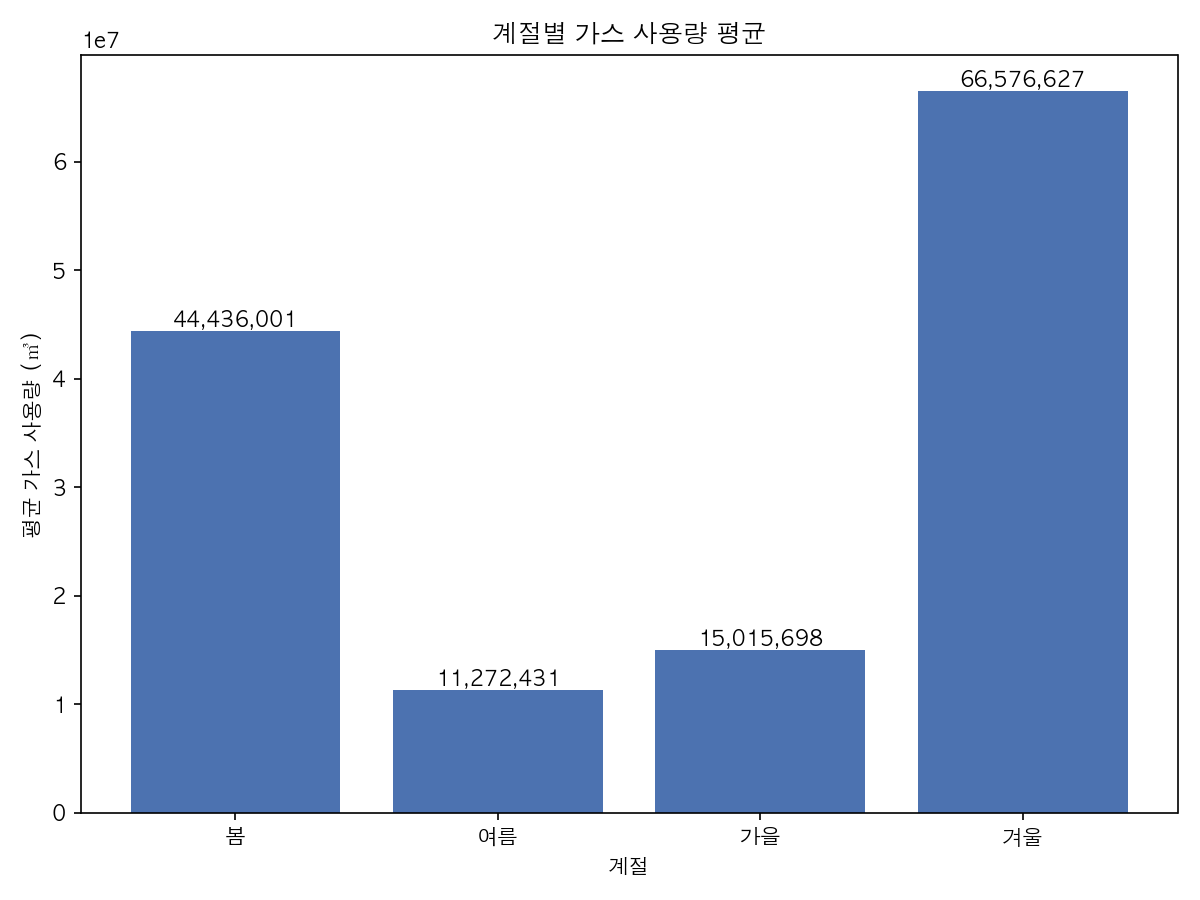
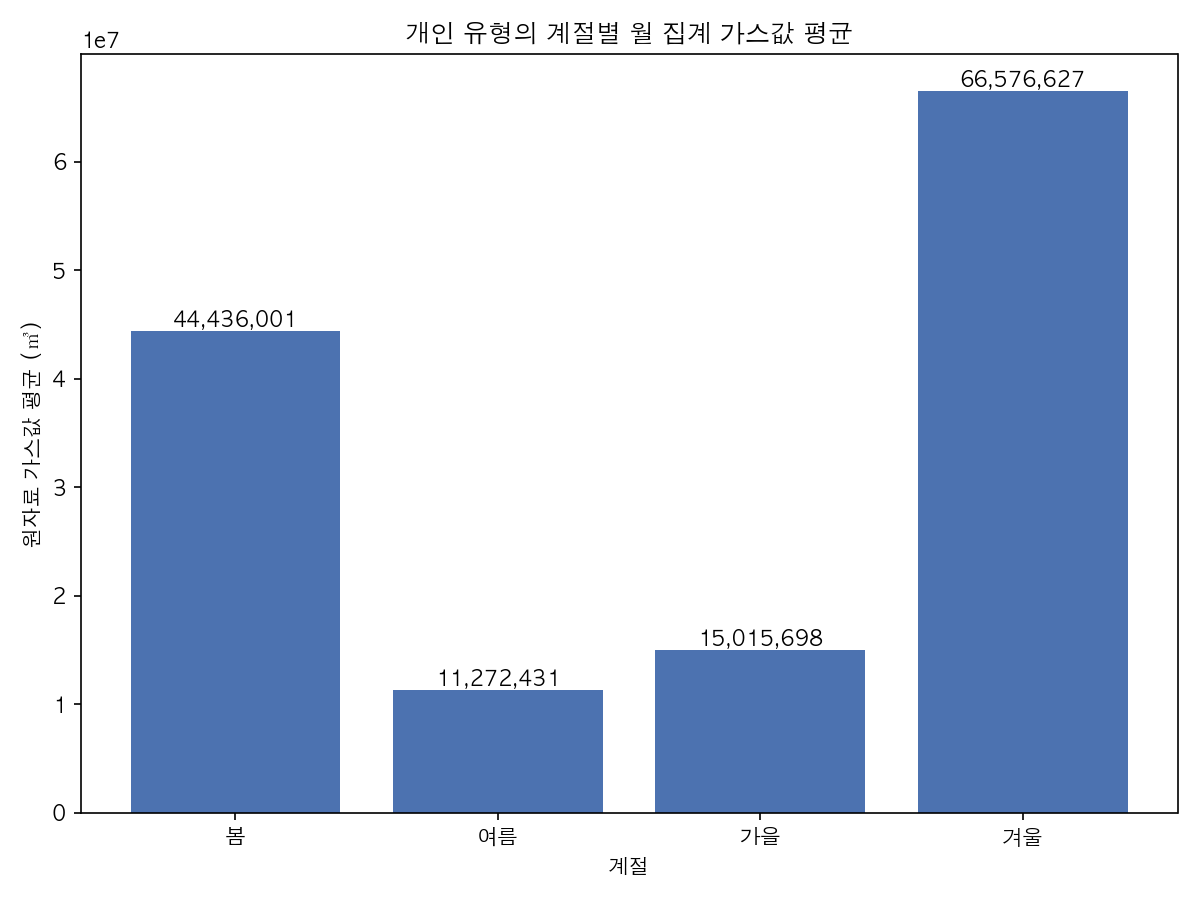
Complete public analysis evidence

Changed region(s): [[0.3392, 0.0, 0.7092, 0.0622], [0.0, 0.3733, 0.0308, 0.6222]]

diff --git a/tests/test_report_analysis.py b/tests/test_report_analysis.py
@@ -1,0 +1,80 @@
+"""Contract tests for the public analytical summary."""
+
+from __future__ import annotations
+
+import csv
+import unittest
+from collections import defaultdict
+from pathlib import Path
+
+
+ROOT = Path(__file__).resolve().parents[1]
+CSV_PATH = ROOT / "data" / "processed" / "energy_usage_personal.csv"
+REPORT_PATH = ROOT / "reports" / "analysis.md"
+README_PATH = ROOT / "README.md"
+
+
+class ReportAnalysisTests(unittest.TestCase):
+    def test_summary_is_complete_bounded_and_derived_from_tracked_data(self) -> None:
+        with CSV_PATH.open(encoding="utf-8-sig", newline="") as handle:
+            rows = list(csv.DictReader(handle))
+
+        annual_totals: dict[int, float] = defaultdict(float)
+        seasonal_gas: dict[str, list[float]] = defaultdict(list)
+        for row in rows:
+            annual_totals[int(row["year"])] += float(row["total_usage"])
+            seasonal_gas[row["season"]].append(float(row["gas_m3"]))
+
+        report = REPORT_PATH.read_text(encoding="utf-8")
+        summary = " ".join(
+            line.strip()
+            for line in report.splitlines()
+            if line.strip() and not line.startswith("#")
+        )
+
+        self.assertLessEqual(len(summary), 200)
+        self.assertNotIn("정리하세요", report)
+        self.assertNotIn("추정 원인", report)
+        self.assertEqual(len(rows), 120)
+        self.assertEqual(len({(row["year"], row["month"]) for row in rows}), 120)
+
+        growth = (annual_totals[2024] / annual_totals[2015] - 1) * 100
+        winter_mean = sum(seasonal_gas["겨울"]) / len(seasonal_gas["겨울"])
+        summer_mean = sum(seasonal_gas["여름"]) / len(seasonal_gas["여름"])
+
+        self.assertIn(f"{annual_totals[2015] / 100_000_000:.1f}억", summary)
+        self.assertIn(f"{annual_totals[2024] / 100_000_000:.1f}억", summary)
+        self.assertIn(f"{growth:.1f}%", summary)
+        self.assertIn(f"{winter_mean / 10_000:,.0f}만m³", summary)
+        self.assertIn(f"{summer_mean / 10_000:,.0f}만m³", summary)
+        self.assertIn(f"{winter_mean / summer_mean:.1f}배", summary)
+        self.assertIn("월 집계 가스값 평균", summary)
+        self.assertIn("절대 에너지량·원인으로 해석하지 않았다", summary)
+        self.assertTrue(
+            all(
+                4_100_000_000 <= annual_totals[year] < 4_200_000_000
+                for year in range(2022, 2025)
+            )
+        )
+
+    def test_readme_preserves_official_source_and_license_attribution(self) -> None:
+        readme = README_PATH.read_text(encoding="utf-8")
+
+        self.assertIn(
+            "https://data.seoul.go.kr/dataList/OA-15361/A/1/datasetView.do",
+            readme,
+        )
+        self.assertIn("서울시 에코마일리지 에너지사용량 통계정보(회원유형별)", readme)
+        self.assertIn("Seoul Metropolitan Government", readme)
+        self.assertIn("https://www.kogl.or.kr/info/licenseType1.do", readme)
+        self.assertIn("Type 1", readme)
+        self.assertIn("No ownership of the Seoul source data is claimed", readme)
+        self.assertIn("must not imply sponsorship", readme)
+        self.assertIn("not a normalized energy measure", readme)
+        self.assertIn("not a per-household average", readme)
+        self.assertIn("it is not a software license", readme)
+        self.assertIn("no separate open-source license", readme)
+
+
+if __name__ == "__main__":
+    unittest.main()

diff --git a/src/visualize.py b/src/visualize.py
@@ -49,9 +49,9 @@ def plot_annual_total(df: pd.DataFrame) -> None:
 
     plt.figure(figsize=(10, 6))
     plt.plot(annual["year"], annual["total_usage"], marker="o")
-    plt.title("연도별 에너지 사용 총량 변화 - 2212")
+    plt.title("연도별 과제용 단순 합계 변화 - 2212")
     plt.xlabel("연도")
-    plt.ylabel("총 사용량 (합산 단위)")
+    plt.ylabel("서로 다른 원 단위 수치의 단순 합계")
     plt.grid(True, linestyle="--", alpha=0.5)
 
     output = FIGURES_DIR / "annual_total_energy_2212.png"
@@ -67,9 +67,9 @@ def plot_seasonal_gas(df: pd.DataFrame) -> None:
 
     plt.figure(figsize=(8, 6))
     bars = plt.bar(seasonal.index, seasonal.values, color="#4C72B0")
-    plt.title("계절별 가스 사용량 평균")
+    plt.title("개인 유형의 계절별 월 집계 가스값 평균")
     plt.xlabel("계절")
-    plt.ylabel("평균 가스 사용량 (㎥)")
+    plt.ylabel("원자료 가스값 평균 (㎥)")
 
     for bar in bars:
         height = bar.get_height()

diff --git a/README.md b/README.md
@@ -2,11 +2,21 @@
 
 This project automates the collection, transformation, and visualization of Seoul Eco-Mileage energy usage statistics for the 개인 (household) category from January 2015 through December 2024. The annual line chart includes the student ID suffix `2212` in its title as required by the assignment brief.
 
-![Annual Total Energy Usage](reports/figures/annual_total_energy_2212.png)
-<sub>Annual electricity+gas+water+district heating totals with student ID suffix `2212` in the title.</sub>
+![Annual assignment helper sum](reports/figures/annual_total_energy_2212.png)
+<sub>Annual assignment helper: the source electricity, gas, water, and district-heating values are added without unit conversion. This is a trend aid, not a normalized energy measure.</sub>
 
 ![Seasonal Gas Usage](reports/figures/seasonal_gas_usage.png)
-<sub>Average household gas consumption by season with value labels.</sub>
+<sub>Mean of the monthly aggregate gas values for the `개인` category, grouped by season. This is not a per-household average.</sub>
+
+## Data Source & License
+
+This project uses the Seoul Open Data Plaza dataset [서울시 에코마일리지 에너지사용량 통계정보(회원유형별)](https://data.seoul.go.kr/dataList/OA-15361/A/1/datasetView.do), API service `energyUseDataSummaryInfo`. The publisher and copyright holder is the Seoul Metropolitan Government (서울특별시). This project filters the official aggregate records to the `개인` member category; the tracked CSV, charts, and analysis are derived outputs. No ownership of the Seoul source data is claimed.
+
+The official dataset page designates the source as [Korea Open Government License (공공누리) Type 1 — Source Indication](https://www.kogl.or.kr/info/licenseType1.do). Type 1 permits commercial and non-commercial reuse and modification, provided the source/copyright holder is attributed. Online reuse should preserve a link to the official dataset and must not imply sponsorship or a special relationship with the Seoul Metropolitan Government. Reusers of this repository's derived data or visuals should retain this attribution.
+
+> Source data: Seoul Metropolitan Government, “서울시 에코마일리지 에너지사용량 통계정보(회원유형별),” Seoul Open Data Plaza, KOGL Type 1.
+
+The KOGL notice above describes the Seoul source data's reuse terms; it is not a software license for this repository's code. This repository currently provides no separate open-source license for the code.
 
 ## Project Layout
 - `src/fetch_energy_data.py` — calls the Open API for each month and stores the raw JSON
@@ -15,12 +25,12 @@ This project automates the collection, transformation, and visualization of Seou
 - `data/raw/` — raw API responses (JSON)
 - `data/processed/` — processed datasets (CSV)
 - `reports/figures/` — generated charts (PNG)
-- `reports/analysis.md` — template for the 200-character analytical summary
+- `reports/analysis.md` — verified, evidence-limited summary of the tracked 120-month dataset
 - `docs/engineering_case_study.md` — design decisions, verification evidence, limits, and lessons learned
 - `requirements.txt` — Python dependencies
 
 ## Setup
-1. Install Python 3.9 or later.
+1. Install Python 3.11 or later. CI currently verifies Python 3.13.
 2. (Optional) create and activate a virtual environment.
 3. Install dependencies:
    ```bash
@@ -53,15 +63,15 @@ This project automates the collection, transformation, and visualization of Seou
    - `reports/figures/annual_total_energy_2212.png`
    - `reports/figures/seasonal_gas_usage.png`
 
-4. **Write the analysis**
-   Update `reports/analysis.md` with a sub-200-character interpretation of the trends.
+4. **Review the analysis**
+   Read the completed sub-200-character summary in `reports/analysis.md`. Its headline values are recomputed from the tracked CSV by the test suite.
 
 > **Shortcut:** 환경 설정이 끝났다면 전체 파이프라인은
 > `python src/run_pipeline.py`
 
 ## Verification
 
-The network-free suite checks response validation, category filtering, deterministic snapshot writes, idempotent CSV generation, ordered orchestration, and fail-closed behavior without using a live API key:
+The network-free suite checks response validation, category filtering, deterministic snapshot writes, idempotent CSV generation, analytical-summary claims, source attribution, ordered orchestration, and fail-closed behavior without using a live API key. CI also runs Ruff, compilation, dependency consistency, and a dependency vulnerability audit:
 
 ```bash
 python -m unittest discover -s tests -v

diff --git a/reports/analysis.md b/reports/analysis.md
@@ -1,9 +1,3 @@
-# 연도별 에너지 사용량 변화 분석
+# 과제용 집계 지표 분석
 
-그래프 결과를 바탕으로 주요 트렌드와 가능한 원인을 200자 이내로 정리하세요.
-
-- 연도별 총 사용량 변화 요약:
-- 주요 증가/감소 구간:
-- 추정 원인 (정책, 기후, 외부 요인 등):
-
-최종 제출 시 위 항목을 200자 내 문단으로 정리하여 제출합니다.
+2015~2024 과제용 연간 합계는 29.0억에서 41.3억으로 42.5% 늘었지만, 2022~2024는 41억대였다. 개인 유형의 월 집계 가스값 평균은 겨울 6,658만m³, 여름 1,127만m³로 5.9배였다. 서로 다른 단위의 합계여서 절대 에너지량·원인으로 해석하지 않았다.
